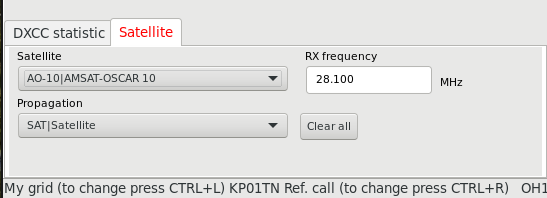
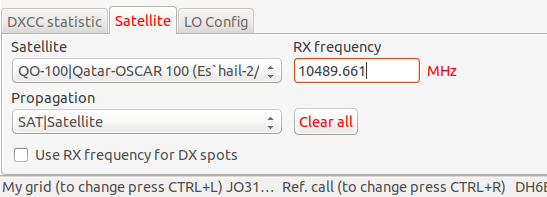
Optionally spot the RX frequency instead of TX

Changed region(s): [[0.0, 0.0, 1.0, 1.0], [0.5594, 0.4569, 0.808, 0.4873]]

diff --git a/help/h20.html b/help/h20.html
@@ -290,7 +290,10 @@
     If you check <b>Preferences/New QSO/Enable satellite mode</b> you get a new tab where 
     you can enter satellite name, rx frequency and propagation mode.
     There are several propagation modes that you can select, not only "SAT" so this 
-    is usefull also when keeping record of non satellite contacts.<br><br>
+    is usefull also when keeping record of non satellite contacts.<br>
+    You can make the DX spot function use the RX frequency of this tab if you enable
+    the checkbox "Use RX frequency for DX spots".<br><br>
+
     <img src="img/h120.png" border="0"><br><br>
     The tab "LO Config" gives you an option to configure frequencies of a 
     local oscillator. These values are added to the "Frequency" field in 
